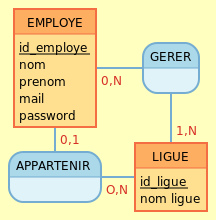
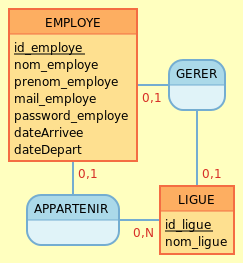
Mise a jour MCD dates

diff --git a/MCD/MCD_mld.html b/MCD/MCD_mld.html
@@ -4,38 +4,31 @@
 <div>
   <details><summary><span class='relation'>EMPLOYE</span> (
     <span class='primary'>id_employe</span>,
-    <span class='normal'>nom</span>,
-    <span class='normal'>prenom</span>,
-    <span class='normal'>mail</span>,
-    <span class='normal'>password</span>,
+    <span class='normal'>nom_employe</span>,
+    <span class='normal'>prenom_employe</span>,
+    <span class='normal'>mail_employe</span>,
+    <span class='normal'>password_employe</span>,
+    <span class='normal'>dateArrivee</span>,
+    <span class='normal'>dateDepart</span>,
     <span class='foreign'>#id_ligue</span>
   )</summary>
   <ul>
     <li>Le champ <i>id_employe</i> constitue la clé primaire de la table. C'était déjà un identifiant de l'entité <i>EMPLOYE</i>.</li>
-    <li>Les champs <i>nom</i>, <i>prenom</i>, <i>mail</i> et <i>password</i> étaient déjà de simples attributs de l'entité <i>EMPLOYE</i>.</li>
+    <li>Les champs <i>nom_employe</i>, <i>prenom_employe</i>, <i>mail_employe</i>, <i>password_employe</i>, <i>dateArrivee</i> et <i>dateDepart</i> étaient déjà de simples attributs de l'entité <i>EMPLOYE</i>.</li>
     <li>Le champ <i>id_ligue</i> est une clé étrangère. Il a migré par l'association de dépendance fonctionnelle <i>APPARTENIR</i> à partir de l'entité <i>LIGUE</i> en perdant son caractère identifiant.</li>
-  </ul></details>
-</div>
-
-<div>
-  <details><summary><span class='relation'>GERER</span> (
-    <span class='foreign primary'>#id_employe</span>,
-    <span class='foreign primary'>#id_ligue</span>
-  )</summary>
-  <ul>
-    <li>Le champ <i>id_employe</i> fait partie de la clé primaire de la table. C'est une clé étrangère qui a migré directement à partir de l'entité <i>EMPLOYE</i>.</li>
-    <li>Le champ <i>id_ligue</i> fait partie de la clé primaire de la table. C'est une clé étrangère qui a migré directement à partir de l'entité <i>LIGUE</i>.</li>
   </ul></details>
 </div>
 
 <div>
   <details><summary><span class='relation'>LIGUE</span> (
     <span class='primary'>id_ligue</span>,
-    <span class='normal'>nom ligue</span>
+    <span class='normal'>nom_ligue</span>,
+    <span class='foreign'>#id_employe</span>
   )</summary>
   <ul>
     <li>Le champ <i>id_ligue</i> constitue la clé primaire de la table. C'était déjà un identifiant de l'entité <i>LIGUE</i>.</li>
-    <li>Le champ <i>nom ligue</i> était déjà un simple attribut de l'entité <i>LIGUE</i>.</li>
+    <li>Le champ <i>nom_ligue</i> était déjà un simple attribut de l'entité <i>LIGUE</i>.</li>
+    <li>Le champ <i>id_employe</i> est une clé étrangère. Il a migré par l'association de dépendance fonctionnelle <i>GERER</i> à partir de l'entité <i>EMPLOYE</i> en perdant son caractère identifiant.</li>
   </ul></details>
 </div>
 
